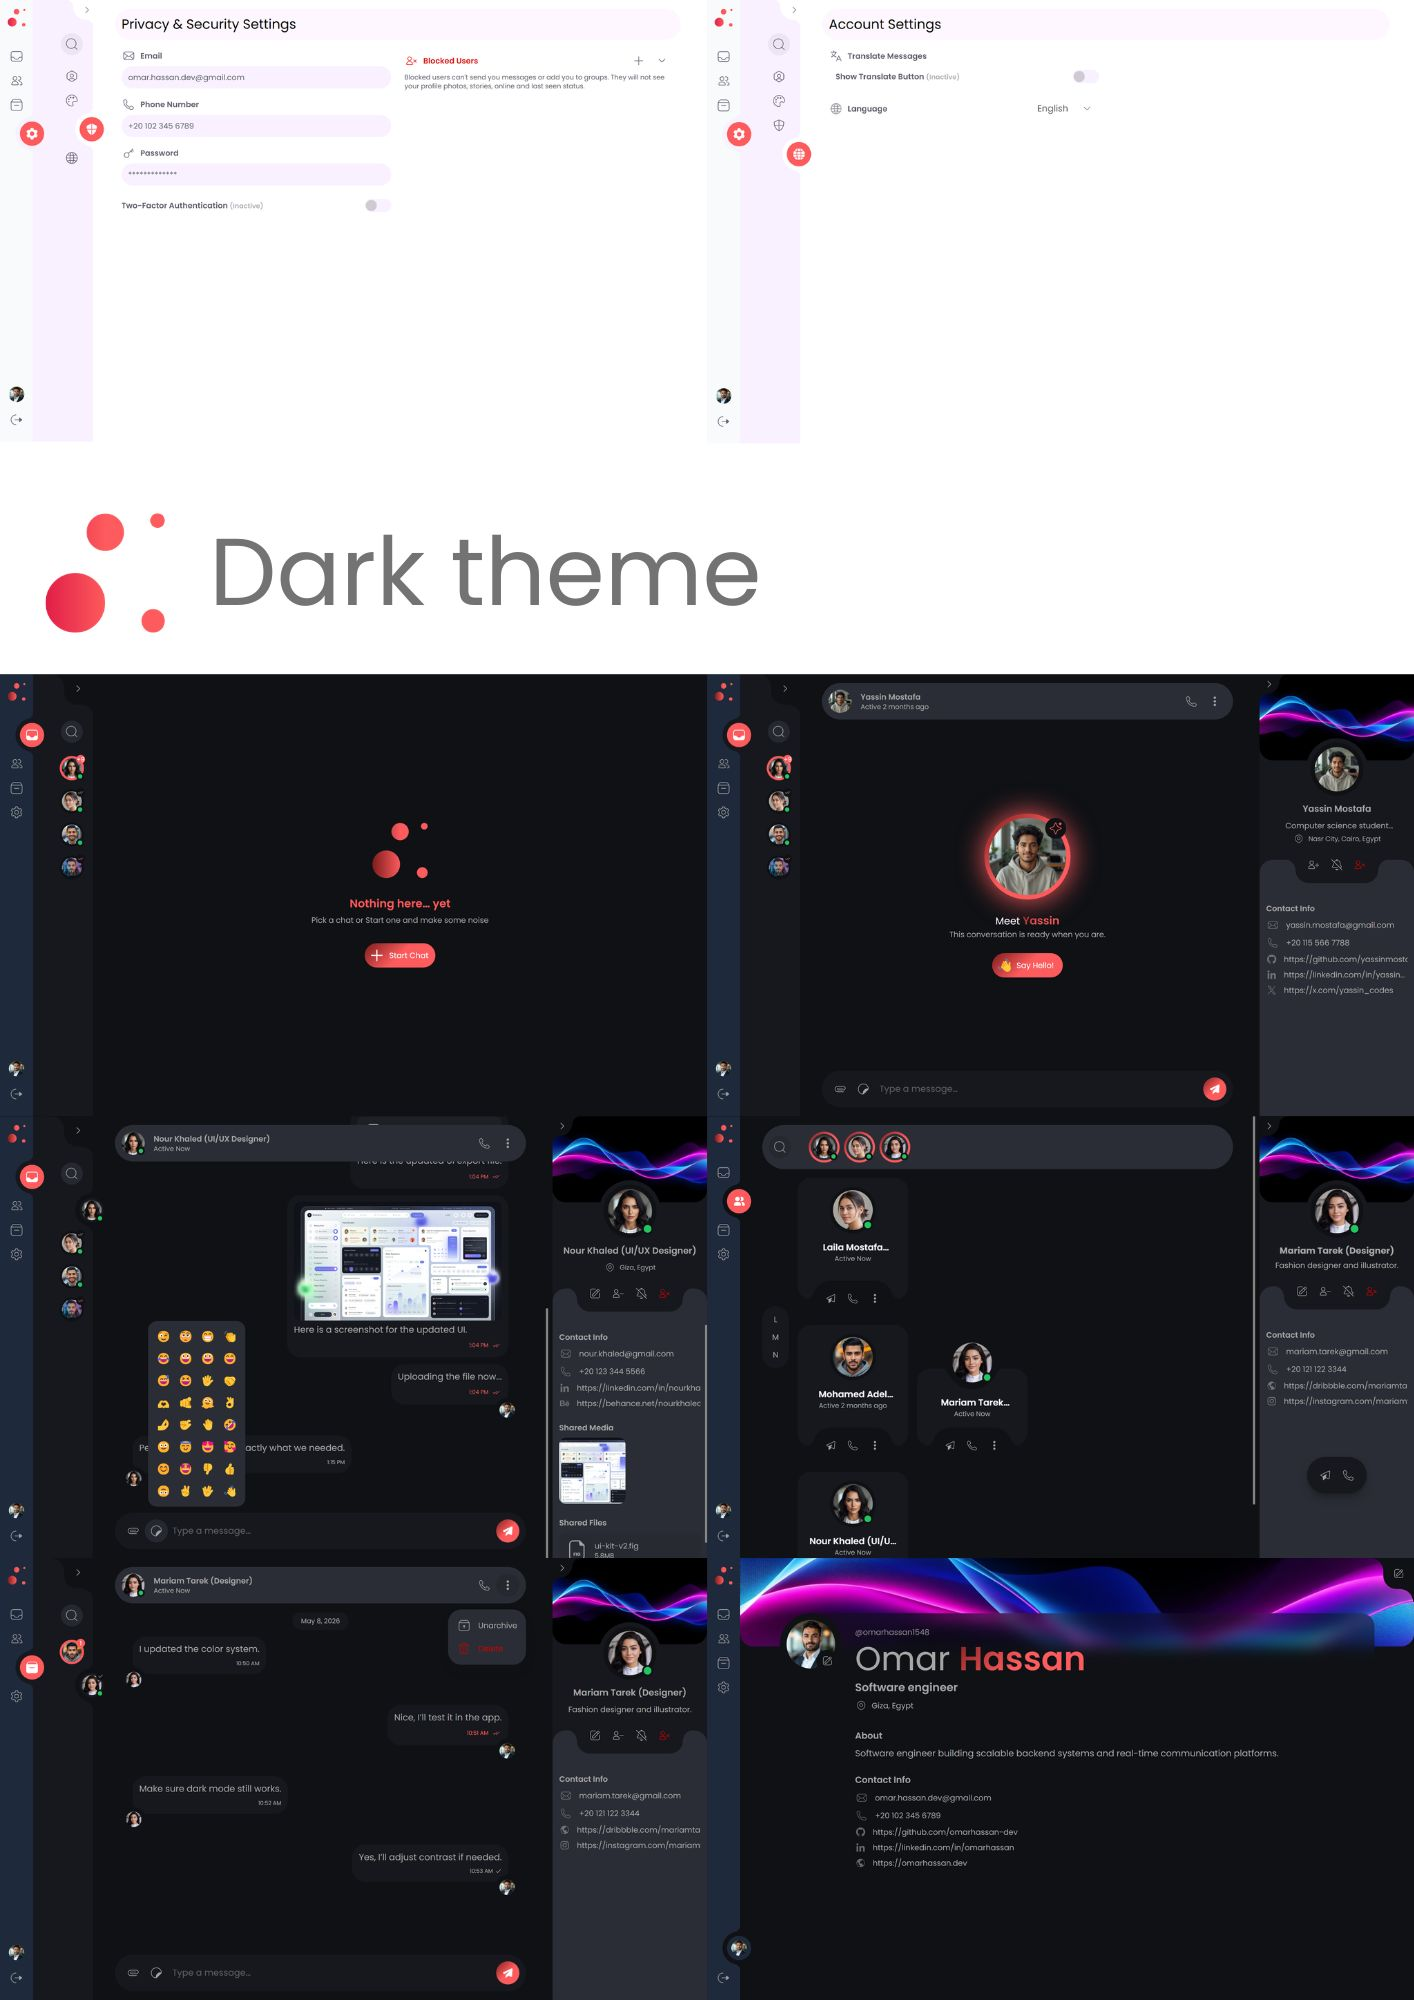
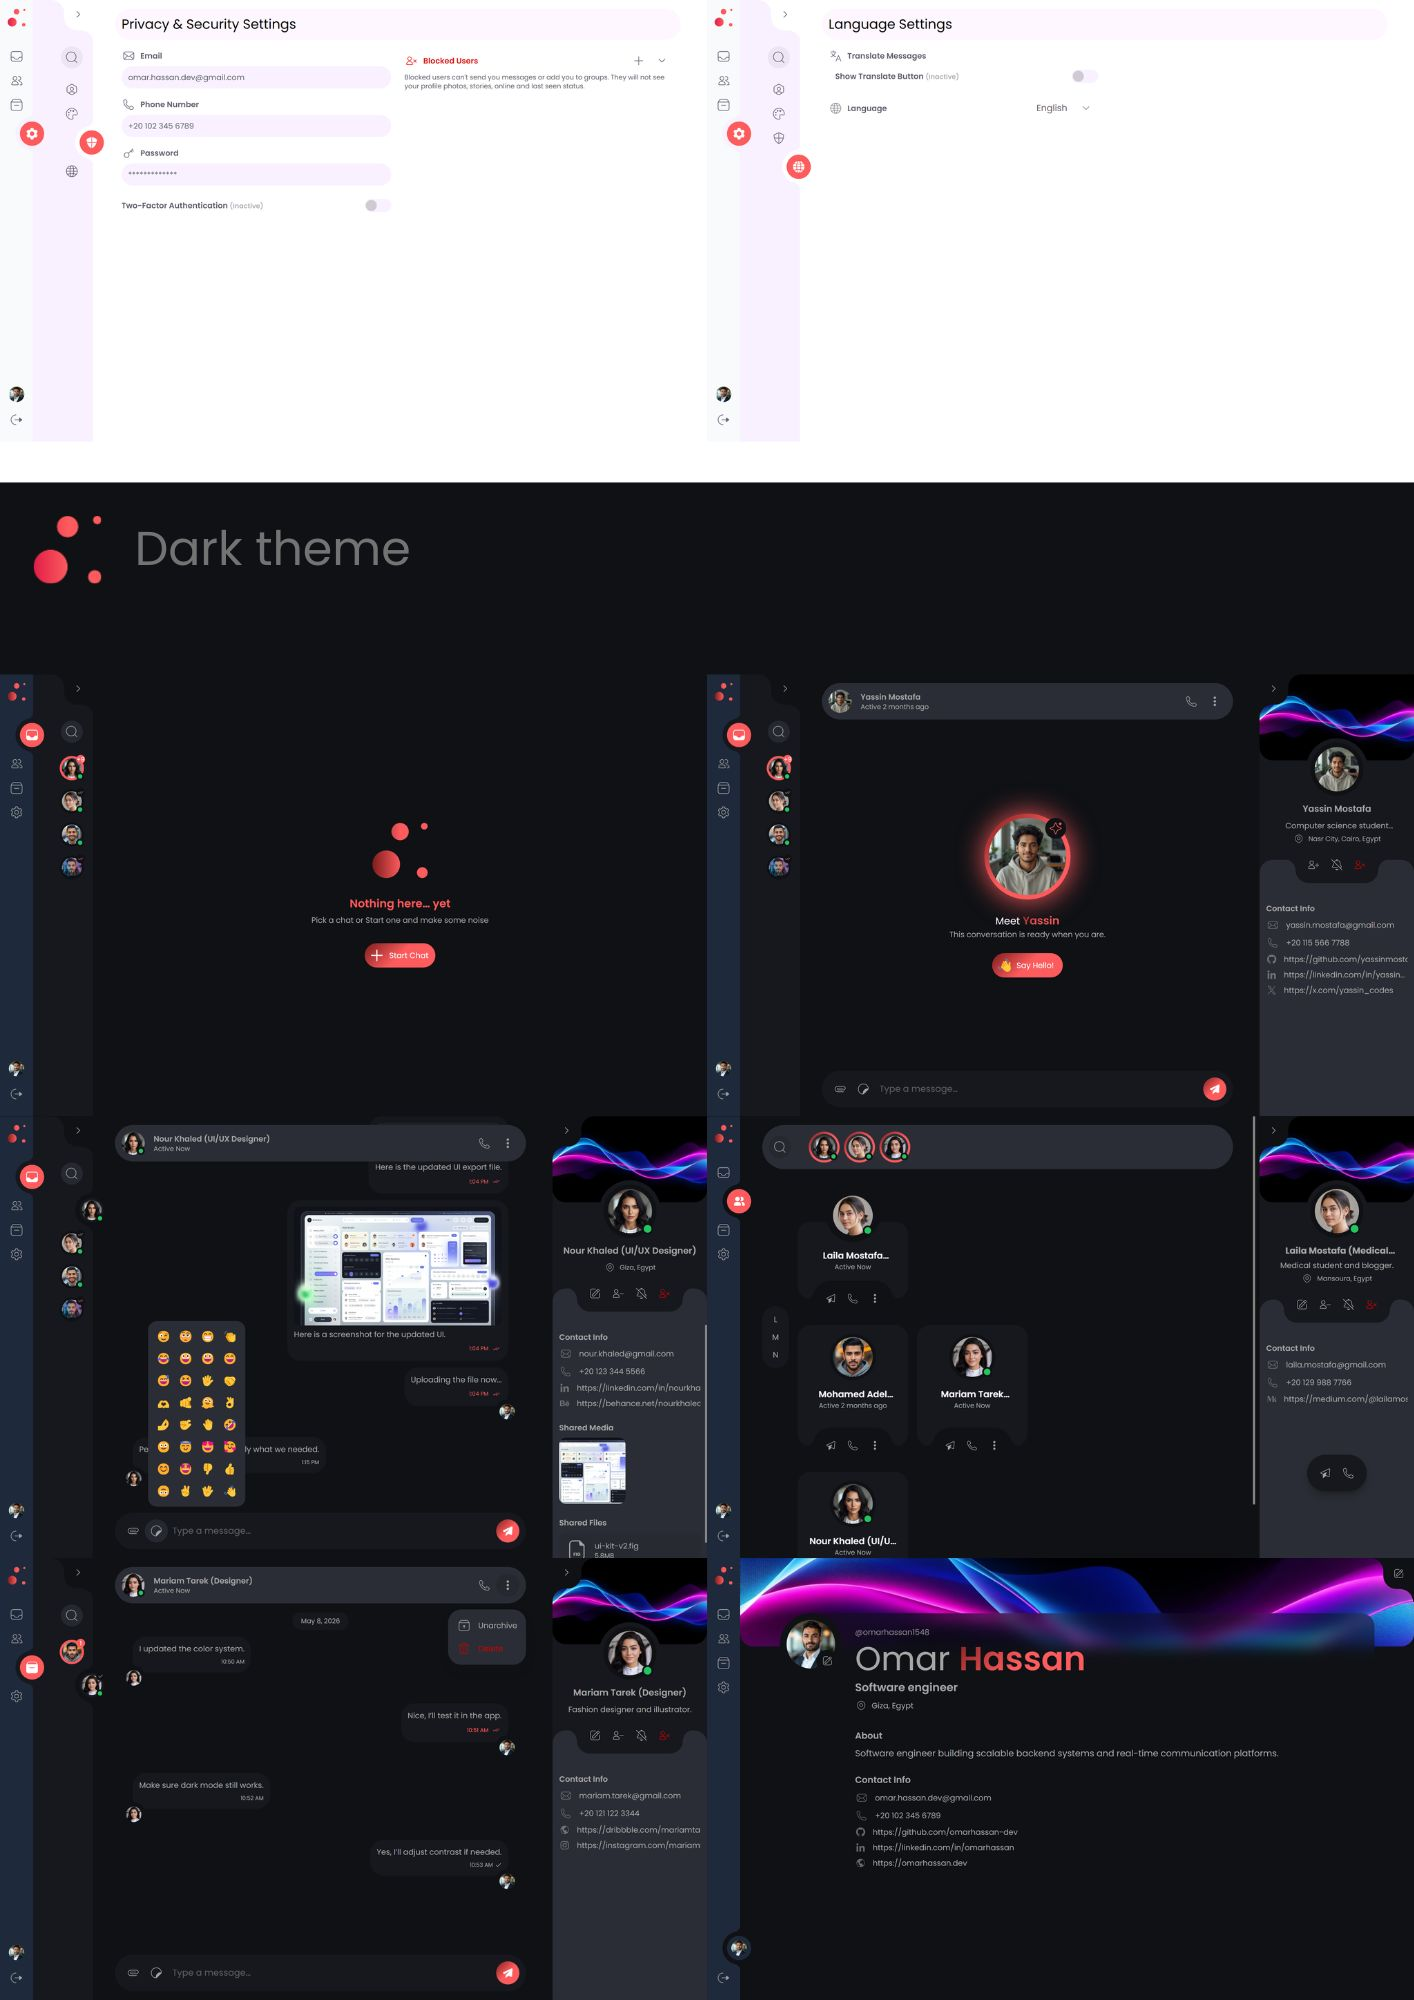
Update README.md file as screenshot is update. Update settings sidebar and updating the close button for conact entry panel and participant panel

diff --git a/client/src/pages/Settings.tsx b/client/src/pages/Settings.tsx
@@ -1,6 +1,5 @@
 import { type ReactNode } from "react";
 import { Link, Outlet, useLocation } from "react-router-dom";
-import { ArrowIcon } from "../components/ui/Icons";
 import Label from "../components/common/Label";
 import { SETTINGS_SIDEBAR_ITEMS } from "../config/navigation";
 import { capitalize, isRouteActive } from "../utils/helpers";
@@ -11,9 +10,18 @@ const SettingsSidebar = (): ReactNode => {
   const pathname = useLocation().pathname;
   return (
     <aside className="min-w-20 h-dvh bg-background-light-surface-2 dark:bg-background-dark-surface-2 p-2 pl-10 flex flex-col items-center gap-4">
-      <button className="relative bg-background-light-base dark:bg-background-dark-base -translate-y-2 translate-x-2 p-1 rounded-bl-3xl cursor-pointer group top-right-cornered-toggle-btn [--shadow-color:#fff] dark:[--shadow-color:#0f1115] self-end">
-        <ArrowIcon className="size-7 transition-all ease-in-out group-hover:translate-x-4 translate-x-2" />
-      </button>
+      <div className="size-15 w-full relative -translate-y-2 translate-x-2">
+        <div className="absolute top-0 right-0 bg-background-light-base dark:bg-background-dark-base p-2 rounded-bl-3xl top-right-cornered-btn [--shadow-color:#fff] dark:[--shadow-color:#0f1115]">
+          <button className="relative group cursor-pointer p-1 rounded-full hover:bg-background-light-secondary dark:hover:bg-background-dark-secondary transition-all ease-in-out">
+            <CommonIcon
+              label="chevron_right"
+              weight="thin"
+              className="size-7 transition-all ease-in-out"
+            />
+            <Label text="Expand" />
+          </button>
+        </div>
+      </div>
       <button className="relative group p-1.5 cursor-pointer rounded-full bg-background-light-secondary dark:bg-background-dark-secondary transition-all ease-in-out hover:scale-110">
         <CommonIcon label="search" className="size-7" weight="thin" />
         <Label text="Search" isSide={true} />

diff --git a/client/src/components/contacts/ContactEntryProfilePanel.tsx b/client/src/components/contacts/ContactEntryProfilePanel.tsx
@@ -22,16 +22,21 @@ const ContactEntryProfilePanel = () => {
       {currentContactEntry && (
         <aside className="sticky top-0 w-70 flex flex-col bg-background-light-surface-2 dark:bg-background-dark-surface-2">
           <div className="relative flex flex-col -mb-10">
-            <button
-              className="absolute top-0 bg-background-light-base dark:bg-background-dark-base p-1 rounded-br-3xl cursor-pointer group top-left-cornered-toggle-btn [--shadow-color:#fff] dark:[--shadow-color:#0f1115]"
+            <div
+              className="size-15 w-full absolute"
               onClick={clearCurrentEntryProfile}
             >
-              <CommonIcon
-                label="chevron_right"
-                weight="thin"
-                className="size-7 transition-all ease-in-out group-hover:translate-x-2"
-              />
-            </button>
+              <div className="absolute top-0 left-0 bg-background-light-base dark:bg-background-dark-base p-2 rounded-br-3xl top-left-cornered-btn  [--shadow-color:#fff] dark:[--shadow-color:#0f1115]">
+                <button className="relative group cursor-pointer p-1 rounded-full hover:bg-background-light-secondary dark:hover:bg-background-dark-secondary transition-all ease-in-out">
+                  <CommonIcon
+                    label="chevron_right"
+                    weight="thin"
+                    className="size-7 transition-all ease-in-out"
+                  />
+                  <Label text="Close" />
+                </button>
+              </div>
+            </div>
             <img
               src={
                 currentContactEntry.profileCover ??

diff --git a/client/src/components/chat/ParticipantProfilePanel.tsx b/client/src/components/chat/ParticipantProfilePanel.tsx
@@ -34,13 +34,18 @@ const ParticipantProfilePanel = (): ReactNode => {
   return (
     <aside className="sticky top-0 w-70 flex flex-col bg-background-light-surface-2 dark:bg-background-dark-surface-2">
       <div className="relative flex flex-col -mb-10">
-        <button className="absolute top-0 bg-background-light-base dark:bg-background-dark-base p-1 rounded-br-3xl cursor-pointer group top-left-cornered-toggle-btn [--shadow-color:#fff] dark:[--shadow-color:#0f1115]">
-          <CommonIcon
-            label="chevron_right"
-            weight="thin"
-            className="size-7 transition-all ease-in-out group-hover:translate-x-2"
-          />
-        </button>
+        <div className="size-15 w-full absolute">
+          <div className="absolute top-0 left-0 bg-background-light-base dark:bg-background-dark-base p-2 rounded-br-3xl top-left-cornered-btn  [--shadow-color:#fff] dark:[--shadow-color:#0f1115]">
+            <button className="relative group cursor-pointer p-1 rounded-full hover:bg-background-light-secondary dark:hover:bg-background-dark-secondary transition-all ease-in-out">
+              <CommonIcon
+                label="chevron_right"
+                weight="thin"
+                className="size-7 transition-all ease-in-out"
+              />
+              <Label text="Close" />
+            </button>
+          </div>
+        </div>
         <img
           src={
             currentParticipant?.profileCover ??

diff --git a/client/src/index.css b/client/src/index.css
@@ -300,6 +300,7 @@ a:focus {
   -webkit-box-shadow: 8px -8px 0px 1px var(--shadow-color);
   -moz-box-shadow: 8px -8px 0px 1px var(--shadow-color);
 }
+
 .top-right-cornered-btn::after {
   position: absolute;
   content: "";
@@ -312,4 +313,32 @@ a:focus {
   box-shadow: 8px -8px 0px 1px var(--shadow-color);
   -webkit-box-shadow: 8px -8px 0px 1px var(--shadow-color);
   -moz-box-shadow: 8px -8px 0px 1px var(--shadow-color);
+}
+
+.top-left-cornered-btn::before {
+  position: absolute;
+  content: "";
+  background: transparent;
+  width: 30px;
+  height: 30px;
+  top: 0;
+  right: -30px;
+  border-top-left-radius: 24px;
+  box-shadow: -8px -8px 0px 1px var(--shadow-color);
+  -webkit-box-shadow: -8px -8px 0px 1px var(--shadow-color);
+  -moz-box-shadow: -8px -8px 0px 1px var(--shadow-color);
+}
+
+.top-left-cornered-btn::after {
+  position: absolute;
+  content: "";
+  background: transparent;
+  width: 30px;
+  height: 30px;
+  bottom: -30px;
+  right: 22px;
+  border-top-left-radius: 24px;
+  box-shadow: -8px -8px 0px 1px var(--shadow-color);
+  -webkit-box-shadow: -8px -8px 0px 1px var(--shadow-color);
+  -moz-box-shadow: -8px -8px 0px 1px var(--shadow-color);
 }

diff --git a/client/src/pages/Settings/LanguageSettings.tsx b/client/src/pages/Settings/LanguageSettings.tsx
@@ -106,7 +106,7 @@ const LanguageOptions = () => {
 export default function LanguageSettings() {
   return (
     <>
-      <SettingsHeader title="Account Settings" />
+      <SettingsHeader title="Language Settings" />
       <div className="flex flex-wrap w-full px-3 gap-6">
         <div className="flex flex-col flex-1 gap-6">
           <TranslateMessageOptions />

diff --git a/README.md b/README.md
@@ -10,6 +10,7 @@ Current Status: Frontend Development Phase
 ✓ User Profiles
 ✓ Theme Switching (Light/Dark)
 ✓ Mock Data Integration (JSON Files)
+⏳ Login and Signup pages
 
 ⏳ Backend Development
 ⏳ Database Integration
